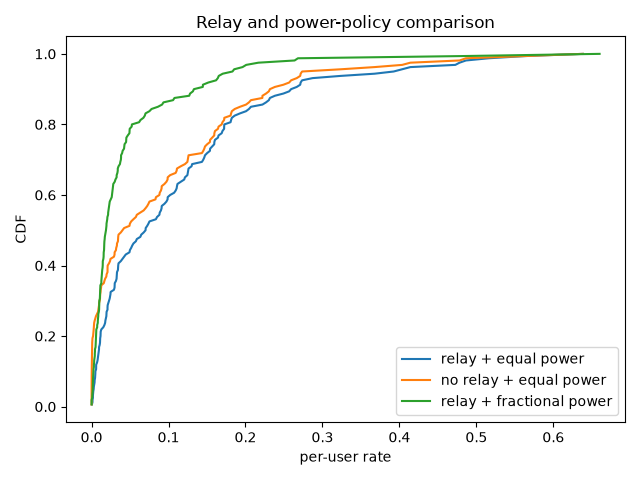
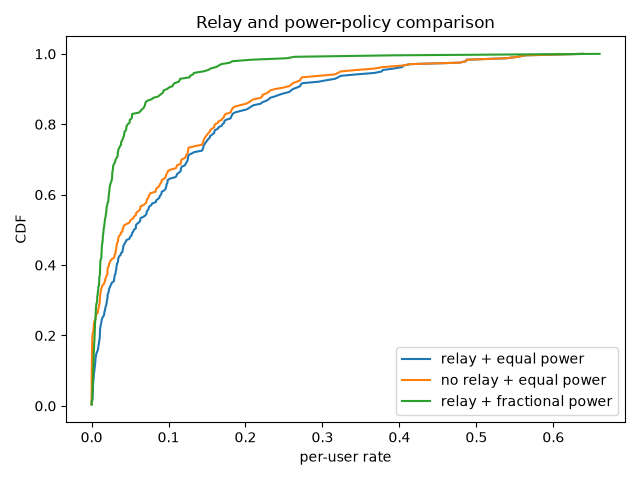
multiple fixes

Changed region(s): [[0.125, 0.0938, 0.9062, 0.8125], [0.0625, 0.6875, 0.0938, 0.7188], [0.0625, 0.5312, 0.0938, 0.5625]]

diff --git a/rapfedbeam/train/ctde_train.py b/rapfedbeam/train/ctde_train.py
@@ -68,52 +68,133 @@ def forward_all_nodes(node_models, channels_hat, scenario, config):
 
 
 def training_step(node_models, optimizer, config, rng, scenario=None):
+    """One CTDE training step: maximise PF utility via a differentiable signal-power proxy.
+
+    The proxy replaces the non-differentiable numpy simulator with a MRT signal-amplitude
+    approximation that IS differentiable through project_ap_power / project_relay_power:
+
+        Phase-I proxy:  S1_k = (Σ_m cluster_mk · p_mk · ||h_hat_mk||)²
+        Phase-II proxy: S2_k = (Σ_r assoc_rk  · p_rk · ||g_hat_rk||)²
+
+    These are lower bounds on the single-user (zero-interference) SINRs under MRT/equal-direction
+    beamforming.  The PF utility proxy maximised here is Σ_k log2(1 + S_k / noise + ε).
+
+    Gradient clipping (max_norm=1.0) prevents parameter explosion.
+    """
     from sim.channels import sample_full_channel_set
     from sim.scenario import generate_drop
-    import torch.nn.functional as F
-    
-    network = config["network"]
-    loss = torch.zeros((), dtype=torch.float32)
-    batch_drops = config["training"].get("batch_drops", 1)
-    
+
+    network, power_cfg = config["network"], config["power"]
+    training_cfg = config["training"]
+    batch_drops = training_cfg.get("batch_drops", 1)
+    p_max_ap = power_cfg["p_max_ap"]
+    p_max_relay = power_cfg["p_max_relay"]
+    tau = config["phase"]["tau_fixed"]
+    penalty_w = training_cfg.get("power_penalty_weight", 0.01)
+    noise_var = 1e-3
+    eps = 1e-6
+
     if scenario is None:
         scenario = generate_drop(config, rng)
-        
+
+    # Relay association mask (fixed per scenario) — shape [R, K]
+    relay_mask = torch.zeros(network["num_relays"], network["num_ues"], dtype=torch.float32)
+    for k, r_id in enumerate(scenario.relay_assoc):
+        if r_id >= 0:
+            relay_mask[r_id, k] = 1.0
+
+    # AP cluster mask — shape [M, K]
+    cluster_t = torch.as_tensor(scenario.cluster_mask.astype(np.float32))  # [M, K]
+
+    all_params = [p for m in node_models.values() for p in m.parameters()]
+    optimizer.zero_grad()
+    cumulative_loss = 0.0
+
     for _ in range(batch_drops):
         channels = sample_full_channel_set(scenario, config, rng)
-        h_hat, G_hat, g_hat = channels.h_hat, channels.G_hat, channels.g_hat
-        
-        batch_loss = torch.zeros((), dtype=torch.float32)
-        
-        # 1. Spatial Water-Filling for APs
+        h_hat = channels.h_hat  # [M, K, N_A]
+        G_hat = channels.G_hat  # [M, R, N_R, N_A]
+        g_hat = channels.g_hat  # [R, K, N_R]
+
+        # --- Channel norms squared (no gradient needed) ---
+        # h_norms_sq[m, k] = ||h_hat[m, k, :]||²
+        h_norms_sq = torch.as_tensor(
+            np.sum(np.abs(h_hat) ** 2, axis=-1).astype(np.float32)
+        )  # [M, K]
+        # g_norms_sq[r, k] = ||g_hat[r, k, :]||²
+        g_norms_sq = torch.as_tensor(
+            np.sum(np.abs(g_hat) ** 2, axis=-1).astype(np.float32)
+        )  # [R, K]
+
+        # --- AP forward pass (with gradient graph) ---
+        ap_powers = []
         for m in range(network["num_aps"]):
-            features = torch.as_tensor(build_ap_feature_vector(h_hat[m], G_hat[m]), dtype=torch.float32)
-            power = torch.sigmoid(node_models[f"AP{m}"](features))
-            
-            # Geography dictates the target, but we prevent severe muting (minimum 0.2)
-            channel_norm = torch.norm(features).detach()
-            target_power = torch.clamp(channel_norm / 5.0, 0.2, 1.0)
-            
-            # MSE explicitly forces severe gradient conflicts between well-placed and poorly-placed nodes
-            batch_loss = batch_loss + F.mse_loss(power, torch.full_like(power, target_power))
-            
-        # 2. Spatial Water-Filling for Relays
+            feat = torch.as_tensor(
+                build_ap_feature_vector(h_hat[m], G_hat[m]), dtype=torch.float32
+            )
+            logits = node_models[f"AP{m}"](feat)
+            ap_powers.append(project_ap_power(logits, p_max_ap, scenario.cluster_mask[m]))
+            # ap_powers[m]: shape [K]
+
+        # --- Relay forward pass (with gradient graph) ---
+        relay_powers = []
         for r in range(network["num_relays"]):
-            features = torch.as_tensor(build_relay_feature_vector(G_hat[:, r], g_hat[r]), dtype=torch.float32)
-            power = torch.sigmoid(node_models[f"R{r}"](features))
-            
-            channel_norm = torch.norm(features).detach()
-            target_power = torch.clamp(channel_norm / 5.0, 0.2, 1.0)
-            
-            batch_loss = batch_loss + F.mse_loss(power, torch.full_like(power, target_power))
-            
-        loss = loss + batch_loss
-            
-    loss = loss / max(batch_drops, 1)
-    optimizer.zero_grad()
-    loss.backward()
+            feat = torch.as_tensor(
+                build_relay_feature_vector(G_hat[:, r], g_hat[r]), dtype=torch.float32
+            )
+            logits = node_models[f"R{r}"](feat)
+            relay_powers.append(project_relay_power(logits, p_max_relay, scenario.relay_assoc, r))
+            # relay_powers[r]: shape [K]
+
+        # --- Differentiable Phase-I signal amplitude (MRT coherent gain proxy) ---
+        # signal_amp_1[k] = Σ_m cluster_mk * p_mk * ||h_hat_mk||
+        # Under MRT: h_hat_mk^H w_mk = p_mk * ||h_hat_mk||  (exactly)
+        signal_amp_1 = torch.zeros(network["num_ues"])
+        for m, p_m in enumerate(ap_powers):
+            signal_amp_1 = signal_amp_1 + cluster_t[m] * p_m * torch.sqrt(h_norms_sq[m].clamp(min=0.0))
+
+        # Phase-I capacity proxy: tau * log2(1 + S1_k / noise)
+        phase1_cap = tau * torch.log2(1.0 + signal_amp_1.square() / noise_var + eps)
+
+        # --- Differentiable Phase-II signal amplitude (relay DF proxy) ---
+        # signal_amp_2[k] = Σ_r assoc_rk * p_rk * ||g_hat_rk||
+        signal_amp_2 = torch.zeros(network["num_ues"])
+        for r, p_r in enumerate(relay_powers):
+            signal_amp_2 = signal_amp_2 + relay_mask[r] * p_r * torch.sqrt(g_norms_sq[r].clamp(min=0.0))
+
+        # Phase-II capacity proxy: (1-tau) * log2(1 + S2_k / noise)
+        phase2_cap = (1.0 - tau) * torch.log2(1.0 + signal_amp_2.square() / noise_var + eps)
+
+        # --- Combined rate proxy (DF constraint: rate_k = min(C_D_k, C_AR_k)) ---
+        # For non-relay UEs: rate = phase1_cap (phase2 term is zero)
+        # For relay UEs: apply DF min (relay decode proxy ≈ phase1_cap from AP→relay link)
+        rate_proxy = phase1_cap + phase2_cap
+
+        # --- PF utility (sum of log rates proxy) ---
+        # Use log1p(rate * scale) instead of log2(rate) to avoid 1/(tiny_rate) gradient explosion.
+        # scale=1000 shifts the knee of log1p away from zero (log1p(0) gradient = 1, not 1/eps).
+        rate_scale = 1000.0  # dimensionless; makes log1p gradient well-conditioned at SNR <<1
+        pf_proxy = torch.log1p(rate_proxy * rate_scale).sum()
+
+        # --- Power regularisation (encourage feasibility headroom) ---
+        power_sq = (
+            sum(p.square().sum() for p in ap_powers) +
+            sum(p.square().sum() for p in relay_powers)
+        )
+        power_penalty = penalty_w * power_sq
+
+        drop_loss = (-pf_proxy + power_penalty) / batch_drops
+
+        # Backward PER DROP so each drop's gradient is clipped before the next accumulates.
+        # This prevents one extreme-channel drop (with near-zero signal_amp, causing huge
+        # 1/phase1_cap gradient) from polluting the accumulated gradient buffer.
+        drop_loss.backward()
+        torch.nn.utils.clip_grad_norm_(all_params, max_norm=1.0 / batch_drops)
+        cumulative_loss += float(drop_loss.detach())
+
     optimizer.step()
-    return float(loss.detach())
+    return cumulative_loss
+
 
 
 def train_stage_b(config):
@@ -127,8 +208,14 @@ def train_stage_b(config):
     network, model_config = config["network"], config.get("models", {})
     ap_dim = network["num_ues"] * network["n_antennas_ap"] + network["num_relays"] * network["n_antennas_relay"] * network["n_antennas_ap"]
     relay_dim = network["num_aps"] * network["n_antennas_relay"] * network["n_antennas_ap"] + network["num_ues"] * network["n_antennas_relay"]
-    node_models = {**{f"AP{m}": NodePolicy("AP", ap_dim, network["num_ues"], config) for m in range(network["num_aps"])}, **{f"R{r}": NodePolicy("relay", relay_dim, network["num_ues"], config) for r in range(network["num_relays"])}}
-    optimizer = torch.optim.Adam([parameter for model in node_models.values() for parameter in model.parameters()], lr=config["training"].get("lr", 1e-3))
+    node_models = {
+        **{f"AP{m}": NodePolicy("AP", ap_dim, network["num_ues"], config) for m in range(network["num_aps"])},
+        **{f"R{r}": NodePolicy("relay", relay_dim, network["num_ues"], config) for r in range(network["num_relays"])}
+    }
+    optimizer = torch.optim.Adam(
+        [parameter for model in node_models.values() for parameter in model.parameters()],
+        lr=config["training"].get("lr", 1e-3)
+    )
     rng = np.random.default_rng(config.get("seed", 42))
     losses = []
     for _ in range(config["training"].get("epochs", 1)):

diff --git a/rapfedbeam/sim/rates.py b/rapfedbeam/sim/rates.py
@@ -104,7 +104,7 @@ def phase2_sinr_ue(g_rk, v, relay_assoc, noise_var_k):
         assigned = int(relay_assoc[k])
         if assigned < 0:
             continue
-        gains = np.einsum("rn,rja->rj", np.conj(g_rk[:, k, :]), v)
+        gains = np.einsum("rn,rjn->rj", np.conj(g_rk[:, k, :]), v)
         desired = abs(gains[assigned, k]) ** 2
         interference = sum(abs(gains[r, j]) ** 2 for r in range(num_relays) for j in range(num_ues) if j != k)
         gamma[k] = desired / (interference + noise_var_k)
@@ -162,15 +162,36 @@ def compute_full_rates(scenario, channels, w, v, u, tau, hard_min=True, soft_tem
     return rates, {"gamma1": gamma1, "gamma_AR": gamma_ar, "gamma2": gamma2, "C_D": C_D, "C_AR": C_AR}
 
 
-def mmse_combiners(G_mr, w, noise_var=1e-3):
-    """Return normalized per-relay/user combiners from effective AP-relay channels."""
-    G_mr, w = np.asarray(G_mr), np.asarray(w)
+def mmse_combiners(G_hat, w, noise_var=1e-3):
+    """Return normalized per-relay/user MMSE combiners from effective AP-relay channel estimates.
+
+    Args:
+        G_hat:     AP-to-relay channel estimates, shape [M, R, N_R, N_A]
+        w:         AP beamforming weights, shape [M, K, N_A]
+        noise_var: noise variance at relay receive antennas (also used for regularization)
+    """
+    G_mr, w = np.asarray(G_hat), np.asarray(w)
     num_relays, num_ues, n_relay = G_mr.shape[1], w.shape[1], G_mr.shape[2]
     combiners = np.zeros((num_relays, num_ues, n_relay), dtype=np.complex128)
     for r in range(num_relays):
+        # Effective channel: shape [R, N_R, K]; effective[r] = [N_R, K]
         effective = np.einsum("mrna,mka->rnk", G_mr, w)
-        covariance = effective[r] @ effective[r].conj().T + noise_var * np.eye(n_relay)
+        eff_r = effective[r]  # [N_R, K]
+        # Covariance = Σ_k e_k e_k^H + noise * I.  Add trace-based regularisation
+        # to ensure positive definiteness even when all beams are near-zero.
+        cov_signal = eff_r @ eff_r.conj().T
+        reg = max(float(np.real(np.trace(cov_signal))) * 1e-4, noise_var)
+        covariance = cov_signal + reg * np.eye(n_relay)
         for k in range(num_ues):
-            vector = np.linalg.solve(covariance, effective[r, :, k])
-            combiners[r, k] = vector / max(np.linalg.norm(vector), 1e-12)
+            rhs = eff_r[:, k]
+            try:
+                vector = np.linalg.solve(covariance, rhs)
+            except np.linalg.LinAlgError:
+                vector = rhs.copy()          # fallback: matched filter
+            if not np.all(np.isfinite(vector)):
+                vector = rhs.copy()          # fallback on NaN/Inf from solver
+            norm = float(np.linalg.norm(vector))
+            if norm > 1e-12 and np.isfinite(norm):
+                combiners[r, k] = vector / norm
+            # else: leave combiner as zero (relay produces no useful signal for this UE)
     return combiners

diff --git a/rapfedbeam/fl/aggregate.py b/rapfedbeam/fl/aggregate.py
@@ -8,11 +8,13 @@ Paper mapping: Sec. XXVI-XXVII
 import torch
 
 def compute_deltas(node_backbones_before, node_backbones_after):
+    # All keys in backbone.state_dict() are backbone parameters (e.g. "net.0.weight").
+    # Do NOT filter by key name — that would discard everything.
     return {
         node_id: {
-            key: node_backbones_after[node_id][key] - node_backbones_before[node_id][key] 
-            for key in node_backbones_before[node_id] if 'backbone' in key.lower()
-        } 
+            key: node_backbones_after[node_id][key] - node_backbones_before[node_id][key]
+            for key in node_backbones_before[node_id]
+        }
         for node_id in node_backbones_before
     }
 
@@ -25,10 +27,7 @@ def aggregate_fedavg(deltas, node_backbones_before, participating_ids):
     for node_id in ids:
         result[node_id] = {}
         for key in node_backbones_before[node_id]:
-            if 'backbone' in key.lower():
-                result[node_id][key] = node_backbones_before[node_id][key] + sum(deltas[j][key] for j in ids) / len(ids)
-            else:
-                result[node_id][key] = node_backbones_before[node_id][key]
+            result[node_id][key] = node_backbones_before[node_id][key] + sum(deltas[j][key] for j in ids) / len(ids)
     return result
 
 def aggregate_topology_kernel(deltas, alpha, node_backbones_before, rho_p, participating_ids):
@@ -37,11 +36,8 @@ def aggregate_topology_kernel(deltas, alpha, node_backbones_before, rho_p, parti
     for row, node_id in enumerate(ids):
         result[node_id] = {}
         for key in node_backbones_before[node_id]:
-            if 'backbone' in key.lower():
-                theta_hat = node_backbones_before[node_id][key] + sum(alpha[row, col] * deltas[other][key] for col, other in enumerate(ids))
-                result[node_id][key] = (1.0 - rho_p) * node_backbones_before[node_id][key] + rho_p * theta_hat
-            else:
-                result[node_id][key] = node_backbones_before[node_id][key]
+            theta_hat = node_backbones_before[node_id][key] + sum(alpha[row, col] * deltas[other][key] for col, other in enumerate(ids))
+            result[node_id][key] = (1.0 - rho_p) * node_backbones_before[node_id][key] + rho_p * theta_hat
     return result
 
 def run_aggregation_round(mode, node_backbones_before, node_backbones_after, alpha=None, rho_p=None):

diff --git a/rapfedbeam/fl/signature.py b/rapfedbeam/fl/signature.py
@@ -23,6 +23,16 @@ def compute_node_signature(node_id, role, beta_to_ues, interference_estimate, lo
     return np.concatenate([beta_norm.ravel(), [(interference.mean() - 0.0) / (abs(interference).mean() + 1e-8)], [load.mean()], [1.0 if role.lower() == "ap" else 0.0]]).astype(np.float32)
 
 
+import re
+
+def _parse_node_index(node_id):
+    """Extract the integer index from a node ID string like 'AP0', 'AP12', 'R0', 'R1'."""
+    match = re.search(r'\d+$', str(node_id))
+    if match is None:
+        raise ValueError(f"Cannot parse integer index from node_id: {node_id!r}")
+    return int(match.group())
+
+
 def compute_all_signatures(scenario, channels, node_list):
     # PSEUDOCODE:
     # for each node i in node_list (APs then relays):
@@ -35,10 +45,16 @@ def compute_all_signatures(scenario, channels, node_list):
     beta_ap = np.asarray(getattr(scenario, "beta_ap_ue_db"))
     beta_relay = np.asarray(getattr(scenario, "beta_relay_ue_db"))
     for node_id in node_list:
-        if str(node_id).upper().startswith("A") or (isinstance(node_id, int) and node_id < beta_ap.shape[0]):
-            index = int(str(node_id).lstrip("APap") or node_id)
-            signatures[node_id] = compute_node_signature(node_id, "AP", beta_ap[index], 0.0, scenario.cluster_mask[index].mean())
+        node_str = str(node_id).upper()
+        if node_str.startswith("AP"):
+            index = _parse_node_index(node_id)
+            signatures[node_id] = compute_node_signature(
+                node_id, "AP", beta_ap[index], 0.0, scenario.cluster_mask[index].mean()
+            )
         else:
-            index = int(str(node_id).lstrip("Rrelay"))
-            signatures[node_id] = compute_node_signature(node_id, "relay", beta_relay[index], 0.0, (scenario.relay_assoc == index).mean())
+            index = _parse_node_index(node_id)
+            signatures[node_id] = compute_node_signature(
+                node_id, "relay", beta_relay[index], 0.0,
+                (scenario.relay_assoc == index).mean()
+            )
     return signatures

diff --git a/rapfedbeam/models/projection.py b/rapfedbeam/models/projection.py
@@ -22,7 +22,9 @@ def project_ap_power(raw_logits, p_max_ap, cluster_mask_row):
     positive_power = F.softplus(raw_logits).square() * mask
     total_power = positive_power.sum(dim=-1, keepdim=True)
     scale = torch.sqrt(torch.as_tensor(p_max_ap, dtype=raw_logits.dtype, device=raw_logits.device) / torch.clamp(total_power, min=p_max_ap))
-    return torch.sqrt(positive_power) * scale
+    # Clamp before sqrt to prevent 1/sqrt(0)=Inf gradient for unserved UEs (mask==0).
+    # Final multiply by mask guarantees exactly-zero output (power budget constraint).
+    return torch.sqrt(positive_power.clamp(min=1e-12)) * scale * mask
 
 
 def project_relay_power(raw_logits, p_max_relay, relay_assoc_row, this_relay_id):
@@ -34,4 +36,5 @@ def project_relay_power(raw_logits, p_max_relay, relay_assoc_row, this_relay_id)
     positive_power = F.softplus(raw_logits).square() * mask
     total_power = positive_power.sum(dim=-1, keepdim=True)
     scale = torch.sqrt(torch.as_tensor(p_max_relay, dtype=raw_logits.dtype, device=raw_logits.device) / torch.clamp(total_power, min=p_max_relay))
-    return torch.sqrt(positive_power) * scale
+    # Same sqrt(0) fix: clamp before sqrt, then zero out non-associated UEs via mask.
+    return torch.sqrt(positive_power.clamp(min=1e-12)) * scale * mask

diff --git a/rapfedbeam/models/heads.py b/rapfedbeam/models/heads.py
@@ -9,12 +9,12 @@ Paper mapping: Sec. XXI (simplified: power coeffs instead of full complex W / V,
 from torch import nn
 
 class APOutputHead(nn.Module):
-	def __init__(self, d_in, max_ues_served):
-		super().__init__()
-		self.net = nn.Linear(d_in, max_ues_served)
+    def __init__(self, d_in, max_ues_served):
+        super().__init__()
+        self.net = nn.Linear(d_in, max_ues_served)
 
-	def forward(self, z):
-		return self.net(z)
+    def forward(self, z):
+        return self.net(z)
 #     def __init__(self, d_in, max_ues_served):
 #         # self.net = Linear(d_in, max_ues_served)
 #     def forward(self, z):
@@ -23,12 +23,12 @@ class APOutputHead(nn.Module):
 
 
 class RelayOutputHead(nn.Module):
-	def __init__(self, d_in, max_ues_served):
-		super().__init__()
-		self.net = nn.Linear(d_in, max_ues_served)
+    def __init__(self, d_in, max_ues_served):
+        super().__init__()
+        self.net = nn.Linear(d_in, max_ues_served)
 
-	def forward(self, z):
-		return self.net(z)
+    def forward(self, z):
+        return self.net(z)
 #     def __init__(self, d_in, max_ues_served):
 #         # self.net = Linear(d_in, max_ues_served)
 #         # (receive combiner U is closed-form MMEE in v1, NOT produced by this head --

diff --git a/rapfedbeam/train/federated_loop.py b/rapfedbeam/train/federated_loop.py
@@ -71,7 +71,7 @@ def run_federated_experiment(config, fl_mode):
         # 4. Evaluate PF Utility on unseen holdout drops using the wrapper
         def rate_evaluator(scenario, channels):
             w, v, u = forward_all_nodes(node_models, channels, scenario, config)
-            r, _ = compute_full_rates(scenario, channels, w, v, u, config["fl"].get("tau", 0.5), hard_min=True)
+            r, _ = compute_full_rates(scenario, channels, w, v, u, config["phase"]["tau_fixed"], hard_min=True)
             return r
 
         # Pass scenario=base_scenario to lock the evaluation geography

diff --git a/rapfedbeam/run_simulation.py b/rapfedbeam/run_simulation.py
@@ -44,7 +44,7 @@ def evaluate_drop(config, rng, use_relay=True, allocation="equal", tau=None):
     )
     relay_directions /= np.sqrt(config["network"]["n_antennas_relay"])
     beams_relay = build_beams_from_power_coeffs(relay_directions, relay_coeffs, config["power"]["p_max_relay"])
-    combiners = mmse_combiners(channels.G_mr, beams_ap)
+    combiners = mmse_combiners(channels.G_hat, beams_ap)
     rates, debug = compute_full_rates(
         scenario,
         channels,
